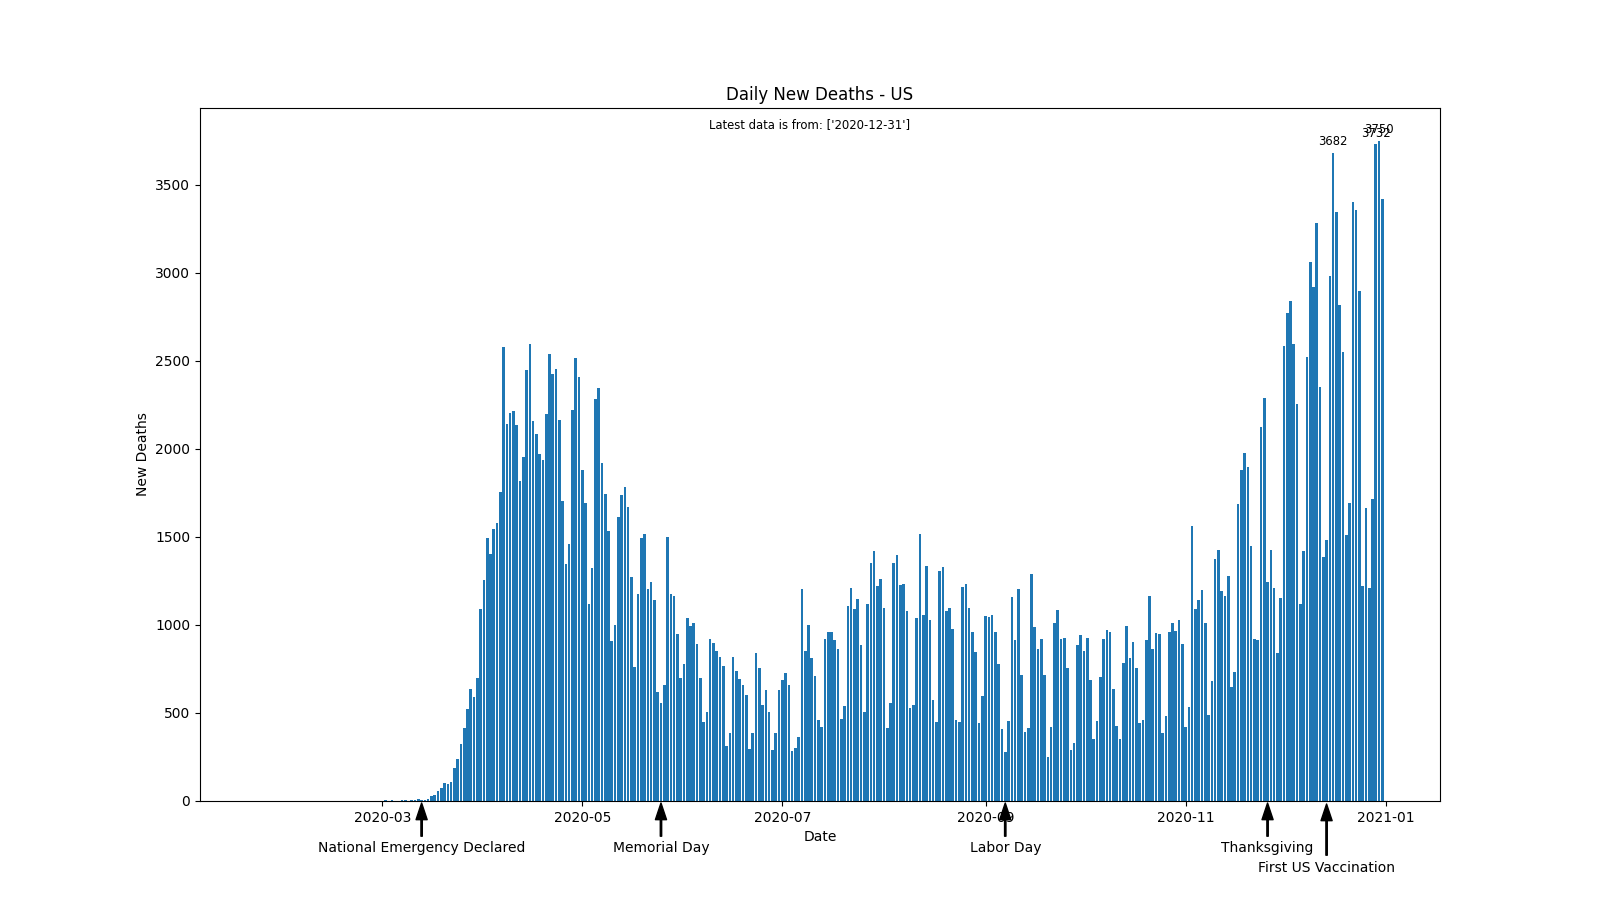
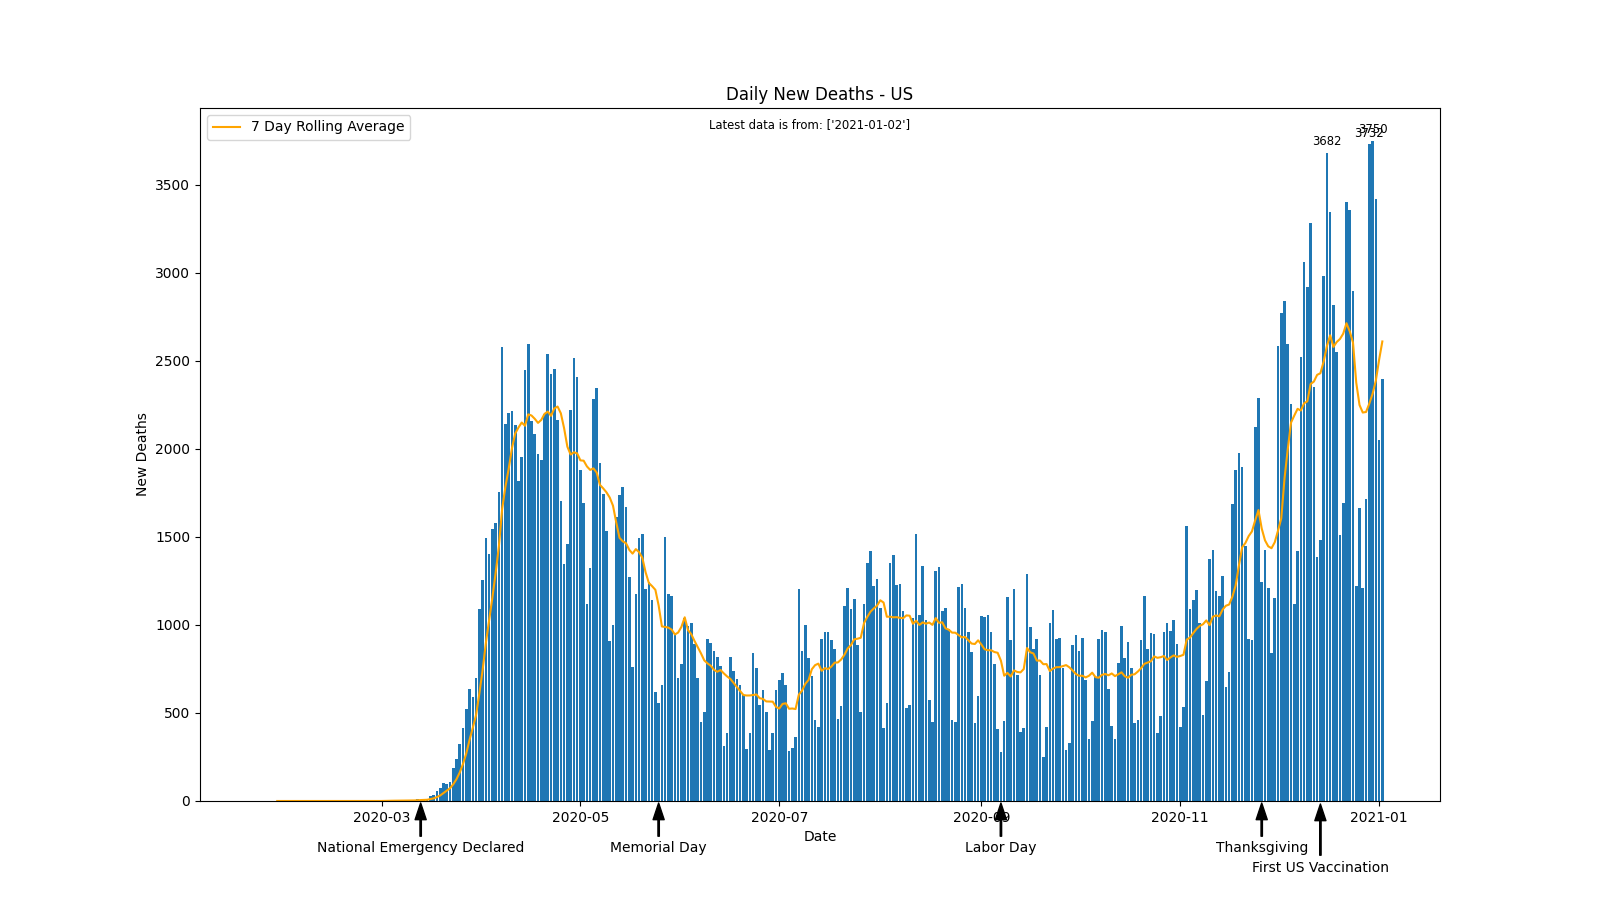
Add 7 day rolling average daily cases and daily deaths

Changed region(s): [[0.1875, 0.1244, 0.875, 0.9956], [0.1562, 0.1244, 0.25, 0.1556], [0.5312, 0.1244, 0.5625, 0.1556]]

diff --git a/dailycases.py b/dailycases.py
@@ -31,6 +31,10 @@ rolleddata = data.groupby(['Country_Region','Date'],as_index=False).sum('Cases')
 rolleddata['New Cases'] = rolleddata.Cases.diff()
 #rolleddata
 
+#add column for rolling average
+rolleddata['Roll'] = rolleddata['New Cases'].rolling(window = 7).mean()
+#rolleddata
+
 # add column that is date integer
 rolleddata['Date int'] = mdates.date2num(rolleddata['Date'])
 
@@ -56,6 +60,8 @@ memorialday = rolleddata[rolleddata['Date'] =='2020-05-25']
 laborday = rolleddata[rolleddata['Date'] =='2020-09-07']
 
 plt.bar(rolleddata['Date'],rolleddata['New Cases'],align='center')
+plt.plot(rolleddata['Date'],rolleddata['Roll'],color='orange',label = '7 Day Rolling Average')
+plt.legend(loc = 'upper left')
 plt.xlabel('Date')
 plt.ylabel('New Cases')
 plt.ticklabel_format(axis="y",style="plain")

diff --git a/dailydeaths.py b/dailydeaths.py
@@ -30,6 +30,10 @@ rolleddata = data.groupby(['Country_Region','Date'],as_index=False).sum('Deaths'
 rolleddata['New Deaths'] = rolleddata.Deaths.diff()
 #rolleddata
 
+#add column for rolling average
+rolleddata['Roll'] = rolleddata['New Deaths'].rolling(window = 7).mean()
+
+
 # add column that is date integer
 rolleddata['Date int'] = mdates.date2num(rolleddata['Date'])
 
@@ -53,6 +57,8 @@ memorialday = rolleddata[rolleddata['Date'] =='2020-05-25']
 laborday = rolleddata[rolleddata['Date'] =='2020-09-07']
 
 plt.bar(rolleddata['Date'],rolleddata['New Deaths'],align='center')
+plt.plot(rolleddata['Date'],rolleddata['Roll'],color='orange',label = '7 Day Rolling Average')
+plt.legend(loc = 'upper left')
 plt.xlabel('Date')
 plt.ylabel('New Deaths')
 plt.ticklabel_format(axis="y",style="plain")
